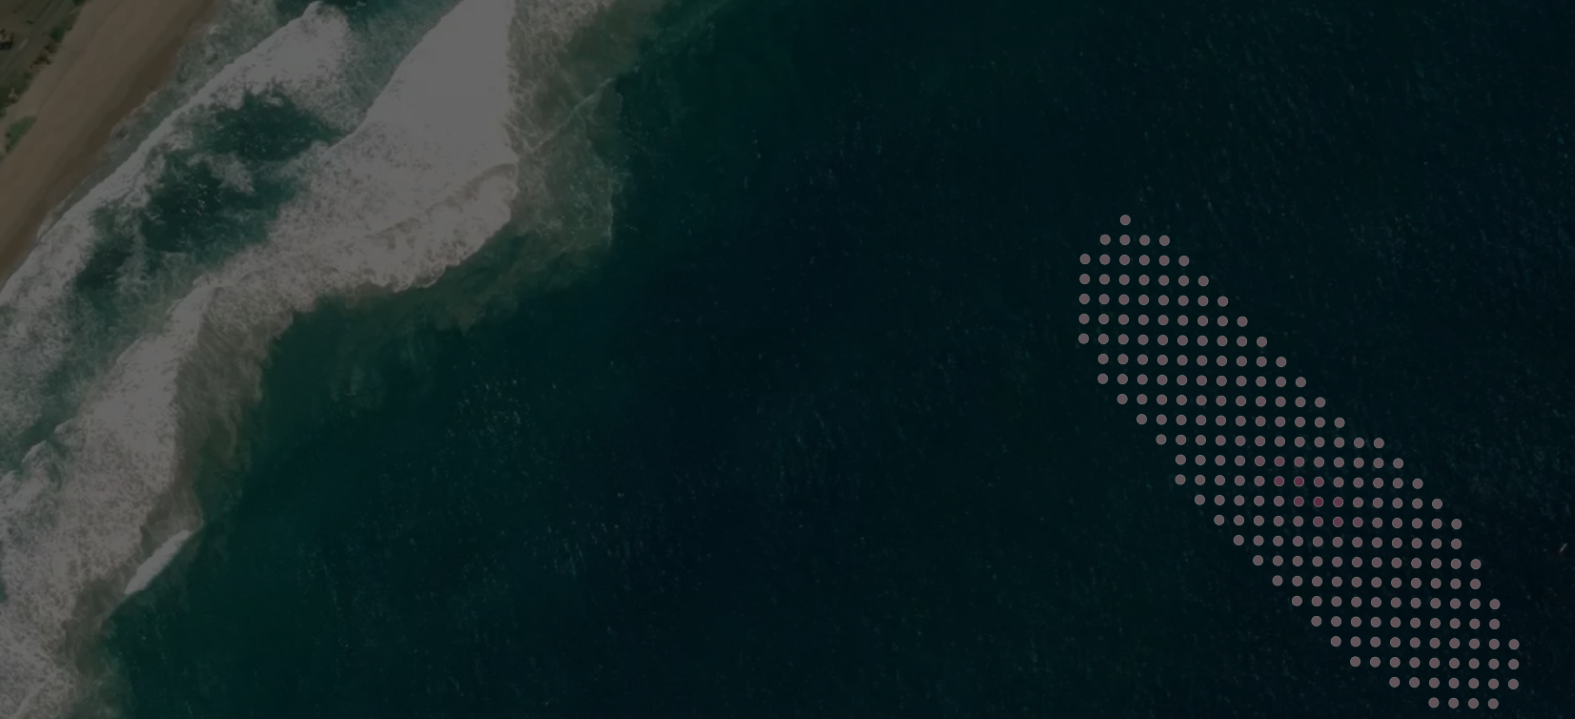
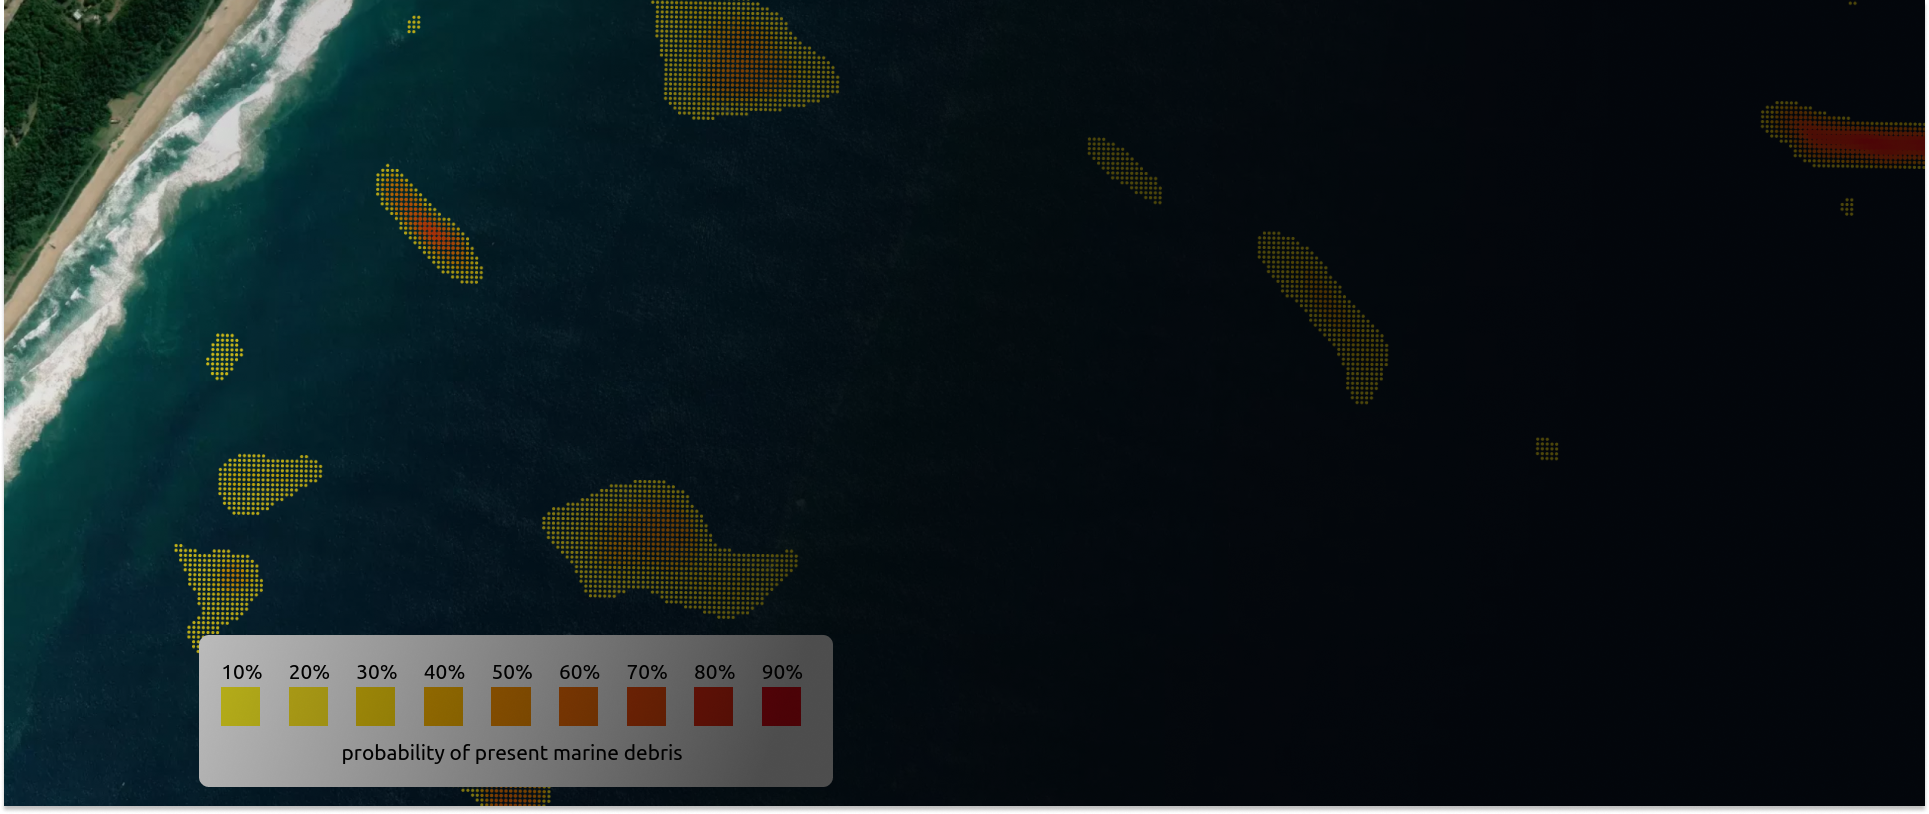
frontend polished

diff --git a/src/lib/sections/Audience.svelte b/src/lib/sections/Audience.svelte
@@ -3,40 +3,45 @@
 	import lupeIcon from '$assets/icons/lupe.png';
 	import database from '$assets/icons/database.png';
 
-    const sections = [
-        {
-            icon: lupeIcon,
-            altText: "Magnifying Glass",
-            title: "For The Public",
-            description: "We visualise plastic pollution across the oceans, make abstract numbers easier to grasp and educate the public about the marine pollution threat."
-        },
-        {
-            icon: ngoIcon,
-            altText: "NGO Icon",
-            title: "For Cleanup NGOs",
-            description: "We equip NGOs with up-to-date data on areas with the highest plastic concentrations, enabling more focused and effective cleanup operations."
-        },
-        {
-            icon: database,
-            altText: "Database Icon",
-            title: "For Researchers",
-            description: "We offer in-depth data insights to dissect the origins, trajectories, and destinations of marine plastics laying the foundation for predictive analytics on future plastic accumulations."
-        }
-    ];
+	const sections = [
+		{
+			icon: lupeIcon,
+			altText: 'Magnifying Glass',
+			title: 'For The Public',
+			description:
+				'We visualise plastic pollution across the oceans, make abstract numbers easier to grasp and educate the public about the marine pollution threat.'
+		},
+		{
+			icon: ngoIcon,
+			altText: 'NGO Icon',
+			title: 'For Cleanup NGOs',
+			description:
+				'We equip NGOs with up-to-date data on areas with the highest plastic concentrations, enabling more focused and effective cleanup operations.'
+		},
+		{
+			icon: database,
+			altText: 'Database Icon',
+			title: 'For Researchers',
+			description:
+				'We offer in-depth data insights to dissect the origins, trajectories, and destinations of marine plastics laying the foundation for predictive analytics on future plastic accumulations.'
+		}
+	];
 </script>
 
-<div class="w-full bg-primary-500 p-10 flex sm:flex-col justify-between">
+<div class="w-full bg-primary-500 pt-20 pb-20 pl-10 pr-10 flex sm:flex-col justify-between">
 	{#each sections as section}
-        <div class="flex flex-col items-center p-5 sm:mb-10">
-            <div class="py-10">
-                <img src={section.icon} alt={section.altText} />
-            </div>
-            <div class="w-[380px] sm:w-[250px]">
-                <h1 class="text-3xl text-center text-white py-3" style="font-weight: 500">{section.title}</h1>
-                <p class="text-center mt-5 text-white">
-                    {section.description}
-                </p>
-            </div>
-        </div>
-    {/each}
+		<div class="flex flex-col items-center p-5 sm:mb-10">
+			<div class="py-10">
+				<img src={section.icon} alt={section.altText} />
+			</div>
+			<div class="w-[380px] sm:w-[250px]">
+				<h1 class="text-3xl text-center text-white py-3" style="font-weight: 500">
+					{section.title}
+				</h1>
+				<p class="text-center mt-5 text-white">
+					{section.description}
+				</p>
+			</div>
+		</div>
+	{/each}
 </div>

diff --git a/src/lib/sections/Mitigation.svelte b/src/lib/sections/Mitigation.svelte
@@ -1,0 +1,83 @@
+<script lang="ts">
+	import trashRiverIcon from '$assets/icons/trashRiver.png';
+	import collectTrashIcon from '$assets/icons/collectTrash.png';
+	import statistic from '$assets/images/statistic.png';
+</script>
+
+<div class="w-full h-screen bg-white flex justify-evenly pt-40 pb-40 pl-20 pr-20">
+	<div class="flex flex-col w-2/5 h-full">
+		<h1 class="font-bold text-3xl mb-10">ACTIVE MITIGATION</h1>
+
+		<ul class="list flex flex-col space-y-10">
+			<li>
+				<span
+					><div
+						class="rounded-full bg-primary-500 w-[60px] h-[60px] flex flex-col items-center justify-center"
+					>
+						<img src={trashRiverIcon} alt="trash in river icon" class="w-2/3 h-2/3" />
+					</div></span
+				>
+				<span class="flex-auto"
+					><p class="">
+						Shocking as it may be, up to <span class="font-bold"
+							>80% of all marine debris consists of plastic</span
+						> an insidious invader of our planet’s most vital habitats.
+					</p></span
+				>
+			</li>
+
+			<li>
+				<span
+					><div
+						class="rounded-full bg-primary-500 w-[60px] h-[60px] flex flex-col items-center justify-center"
+					>
+						<img src={collectTrashIcon} alt="trash in river icon" class="w-2/3 h-2/3" />
+					</div></span
+				>
+				<span class="flex-auto"
+					><p class="">
+						Disturbingly, <span class="font-bold"
+							>the bulk of this plastic threat (80%) lies in our coastal zones</span
+						> endangering marine life and corroding the very essence of our oceans.
+					</p></span
+				>
+			</li>
+
+			<li>
+				<span
+					><div
+						class="rounded-full bg-primary-500 w-[60px] h-[60px] flex flex-col items-center justify-center"
+					>
+						<img src={collectTrashIcon} alt="trash in river icon" class="w-2/3 h-2/3" />
+					</div></span
+				>
+				<span class="flex-auto"
+					><p>
+						The time for change is now, we want to help cleanup NGOs to make their operations more
+						effective with accurate, real-time data on floating plastic debris in coastal regions,
+						and thus play a small part in the fight against plastic pollution.
+					</p></span
+				>
+			</li>
+		</ul>
+	</div>
+	<div>
+		<div class="ml-40">
+			<h1 class="font-bold text-3xl mb-10">NUMBER OF MICROPLASTIC PER CUBIC METER (N/m³)</h1>
+			<img
+				src={statistic}
+				alt="statistic that shows the increase of plastic in our oceans by year and weight"
+			/>
+			<div class="flex space-x-3">
+				<p>Source:</p>
+				<a
+					class="anchor"
+					tabindex="0"
+					href="https://www.iaea.org/newscenter/news/world-oceans-day-2020-new-iaea-research-records-dramatic-increase-in-microplastic-pollution-in-eastern-tropical-pacific-ocean"
+				>
+					Microplastics Abundance in Eastern Tropical Pacific
+				</a>
+			</div>
+		</div>
+	</div>
+</div>

diff --git a/src/lib/sections/Technology.svelte b/src/lib/sections/Technology.svelte
@@ -2,13 +2,11 @@
 	import graph from '$assets/images/graph.png';
 </script>
 
-<div class="w-full bg-primary-500 flex sm:flex-col pl-10 pr-10 pt-20 pb-20">
-	<div class="w-1/2 sm:w-full">
-		<img class="" src={graph} alt="graphs showing different refelction patterns of plastic" />
-	</div>
-	<div class="w-1/2 sm:w-full sm:mt-10">
-		<h1 class="text-3xl text-white"  style="font-weight: 500">HOW THE DETECTION WORKS</h1>
-		<p class="mt-10 w-5/6 sm:w-full sm:mt-10 text-white">
+<div class="w-full h-screen bg-primary-500 flex justify-evenly pt-40 pb-40 pl-20 pr-20">
+	<div class="flex flex-col w-2/5 h-full">
+		<h1 class="font-bold text-white text-3xl mb-10">HOW THE DETECTION WORKS</h1>
+
+		<p class="text-white">
 			We primarily leverage Sentinel-2 imagery, accessible through SentinelHub, as our core data
 			source. This resource offers a remarkable spectral resolution, spanning 13 distinct bandwidths
 			from visible to infrared. Our approach is grounded in the latest open-source scientific
@@ -16,5 +14,29 @@
 			models, neural networks, notably the Unet++ model, excel at discerning the unique reflection
 			and absorption patterns of plastic and marine debris in contrast to water.
 		</p>
+	</div>
+	<div>
+		<div class="ml-40">
+			<img
+				src={graph}
+				alt="statistic that shows the increase of plastic in our oceans by year and weight"
+			/>
+			<div class="mt-5">
+				<p class="text-white">
+					Variations in remote sensing reflectance across different materials at various
+					wavelengths.
+				</p>
+				<div class="flex space-x-3">
+					<p class="text-white">Source:</p>
+					<a
+						class="anchor text-white"
+						tabindex="0"
+						href="https://www.nature.com/articles/s41598-020-62298-z"
+					>
+						Finding Plastic Patches in Coastal Waters using Optical Satellite Data
+					</a>
+				</div>
+			</div>
+		</div>
 	</div>
 </div>

diff --git a/src/lib/sections/Prototype.svelte b/src/lib/sections/Prototype.svelte
@@ -4,27 +4,26 @@
 </script>
 
 <div class="bg-white w-full h-screen relative">
-	<div class="absolute w-1/3 top-40 left-40 sm:w-2/3 sm:top-10 sm:left-10">
-		<h1 class="text-white text-3xl sm:text-3xl"  style="font-weight: 500">OCEAN ECO WATCH PROTOTYPE</h1>
+	<div class="absolute w-1/3 top-40 right-20">
+		<h1 class="text-white text-3xl sm:text-3xl" style="font-weight: 500">
+			OCEAN ECO WATCH PROTOTYPE
+		</h1>
 		<p class="text-white mt-10">
 			We've built a small prototype to detect marine debris on the coast of Durban located in South
 			Africa where a flood event on the 18th of April in 2019 washed out a lot of plastic. We are
 			using data from the sentinel-2 satellite taken six days post-event. Our prototype highlights
 			potential locations of floating plastic. Each point on the map corresponds to the probability
-			of present marine debris and represents an area spanning 10x10 m². <br />I invite you to
-			explore our
-			<span
-				class="anchor text-tertiary-500"
-				on:click={() => goto('/map')}
-				on:keypress={() => goto('/map')}
-				role="link"
-				tabindex="0">prototype.</span
-			>
+			of present marine debris and represents an area spanning 10x10 m².
 		</p>
+		<button
+			class="btn btn-xl bg-white mt-20"
+			on:click={() => goto('/map')}
+			on:keypress={() => goto('/map')}><h1>VIEW PROTORYPE</h1></button
+		>
 	</div>
 	<img
 		src={prototype}
-		class="object-cover sm:object-right w-full h-full"
+		class="object-cover object-left w-full h-full"
 		alt="screenshot of our prototype"
 	/>
 </div>

diff --git a/src/lib/sections/Contact.svelte b/src/lib/sections/Contact.svelte
@@ -1,13 +1,27 @@
-<div class="w-full bg-primary-500 p-10 pt-28">
-	<h1 class="text-3xl text-white pb-10" style="font-weight: 500">Get our marine debris analysis of any coastal region</h1>
-	<p class="text-white mt-5">
-		Interested in our data? We can provide you with a detailed analysis of any coastal region in the
-		world from 2014 to the present.
-	</p>
+<script lang="ts">
+	import seaturtle from '$assets/images/seaturtle.png';
+</script>
 
-	<p class="text-tertiary-500 mt-10" style="font-weight: 500">contact@oceanecowatch.org</p>
+<div class="w-full bg-primary-500 p-10 pt-28">
+	<div class="flex">
+		<div class="w-1/2">
+			<h1 class="text-3xl text-white pb-10" style="font-weight: 500">
+				Get our marine debris analysis of any coastal region
+			</h1>
+			<p class="text-white mt-5">
+				Interested in our data? We can provide you with a detailed analysis of any coastal region in
+				the world from 2014 to the present.
+			</p>
+
+			<p class="text-tertiary-500 mt-10" style="font-weight: 500">contact@oceanecowatch.org</p>
+		</div>
+
+		<div class="w-1/2 flex flex-col items-center">
+			<img class="" src={seaturtle} alt="a seaturle" />
+		</div>
+	</div>
 
 	<div class="flex flex-col items-center mt-20">
-		<a class="anchor text-white" href="/impressum"><p>impressum & datanschutz</p></a>
+		<a class="anchor text-white" href="/impressum"><p class="font-bold">Imprint</p></a>
 	</div>
 </div>

diff --git a/src/lib/sections/Problem2.svelte b/src/lib/sections/Problem2.svelte
@@ -1,0 +1,27 @@
+<div class="w-full bg-primary-500 flex flex-col items-center p-32">
+	<div class="w-2/3 text-center text-4xl text-white font-bold">
+		<h1>Plastic pollution threatens the ecosystem, the economy and human health!</h1>
+	</div>
+	<div class="w-4/5 flex justify-between mt-16">
+		<div class="w-1/4">
+			<p class="text-white text-center">
+				<span class="text-tertiary-500 font-bold text-3xl">In 2050</span><br class="mb-5" />our
+				oceans could hold more plastic than fish by weight
+			</p>
+		</div>
+
+		<div class="w-1/4">
+			<p class="text-white text-center">
+				<span class="text-tertiary-500 font-bold text-3xl">450</span><br />years it takes to break
+				down a plastic bottle into microplastic particles.
+			</p>
+		</div>
+
+		<div class="w-1/4">
+			<p class="text-white text-center">
+				<span class="text-tertiary-500 font-bold text-3xl">$13 billion</span><br />are the cost of
+				annual damage to marine ecosystems cased by plastic waste.
+			</p>
+		</div>
+	</div>
+</div>

diff --git a/src/lib/sections/Hero.svelte b/src/lib/sections/Hero.svelte
@@ -1,6 +1,6 @@
 <script>
 	import { goto } from '$app/navigation';
-	import earth from '$assets/images/earth.jpeg';
+	import earth from '$assets/images/earth.png';
 </script>
 
 <div class="bg-black p-20 sm:p-10 min-h-screen w-full relative">
@@ -10,7 +10,6 @@
 		alt="globe from space"
 	/>
 	<div class="sm:w-5/6 w-1/2 h-full z-10 relative mt-20 sm:mt-0">
-		<!-- Set z-index to a higher value -->
 		<h1 class="text-5xl sm:text-4xl text-white">MAPPING THE PLASTIC THREAT</h1>
 
 		<div class="w-2/3 h-[4px] bg-secondary-500 mt-20 sm:mt-10" />

diff --git a/src/routes/(app)/[locale]/+page.svelte b/src/routes/(app)/[locale]/+page.svelte
@@ -7,15 +7,19 @@
 	import Audience from '$lib/sections/Audience.svelte';
 	import Team from '$lib/sections/Team.svelte';
 	import Contact from '$lib/sections/Contact.svelte';
+	import Problem2 from '$lib/sections/Problem2.svelte';
+	import Mitigation from '$lib/sections/Mitigation.svelte';
 </script>
 
 <div class="w-full max-w-screen hide-scrollbar">
 	<Hero />
-	<Problem />
+	<Problem2 />
+	<Mitigation />
+	<Audience />
+	<Roadmap />
 	<Prototype />
 	<Technology />
-	<Roadmap />
-	<Audience />
+
 	<Team />
 	<Contact />
 </div>
